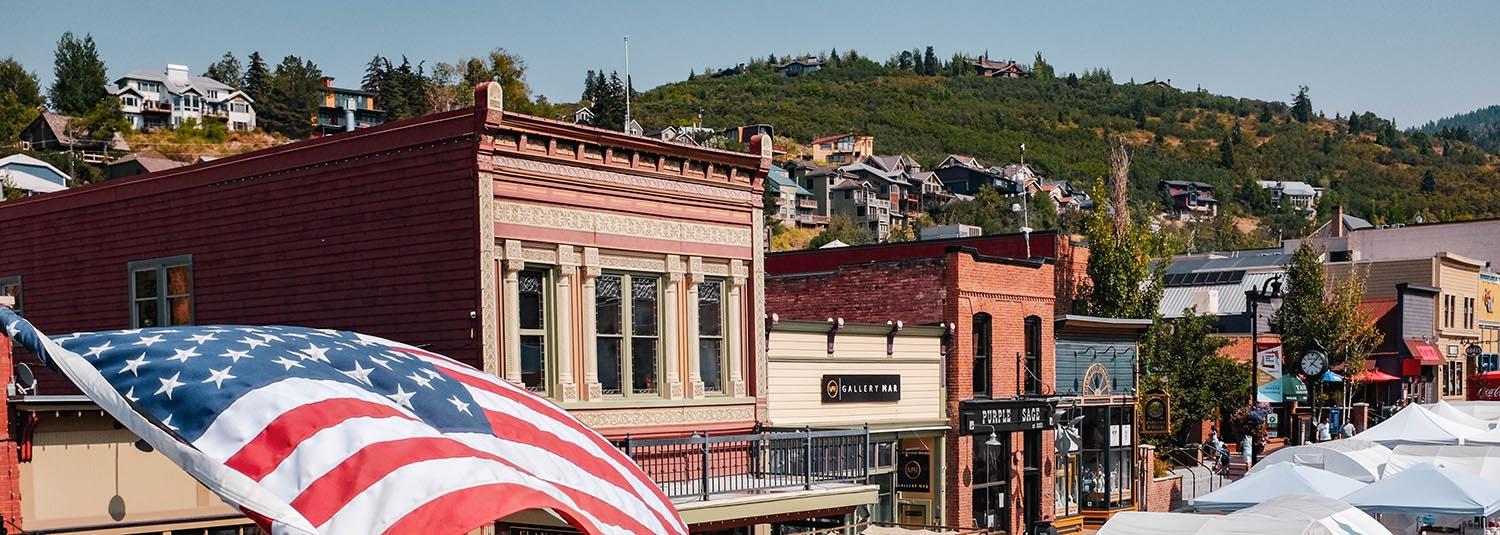
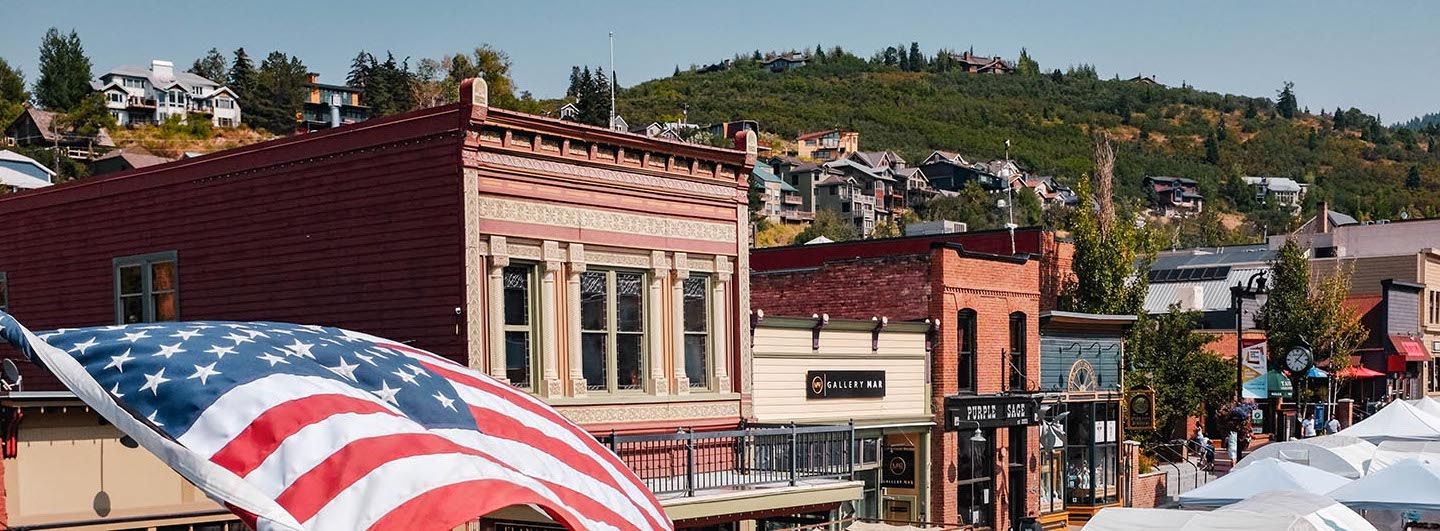
updated hero image

diff --git a/assignments/lesson-7/preston-7.html b/assignments/lesson-7/preston-7.html
@@ -46,9 +46,7 @@
         <section>
             <div class="heroImageArea">
                 <figure class="heroImage">
-                    <img src="./images/franklin-large.jpg" sizes="100vw" alt="Preston Idaho" srcset="./images/franklin-small.jpg 600w, 
-                            ./images/franklin-large.jpg 1200w">
-
+                    <img src="./images/main-street-large.jpg" alt="Preston Idaho">
                 </figure>
                 <section class="weatherSummary">
                     <h3>Weather Summary</h3>

diff --git a/assignments/lesson-7/styles/large-7.css b/assignments/lesson-7/styles/large-7.css
@@ -26,7 +26,7 @@
         /*width: 95%;*/
         /* background-image: url('../images/main-street-large.jpg');
  background-repeat: no-repeat;*/
-        background-color: #002e5b;
+        /* background-color: #002e5b; */
     }
 
     article>div {
